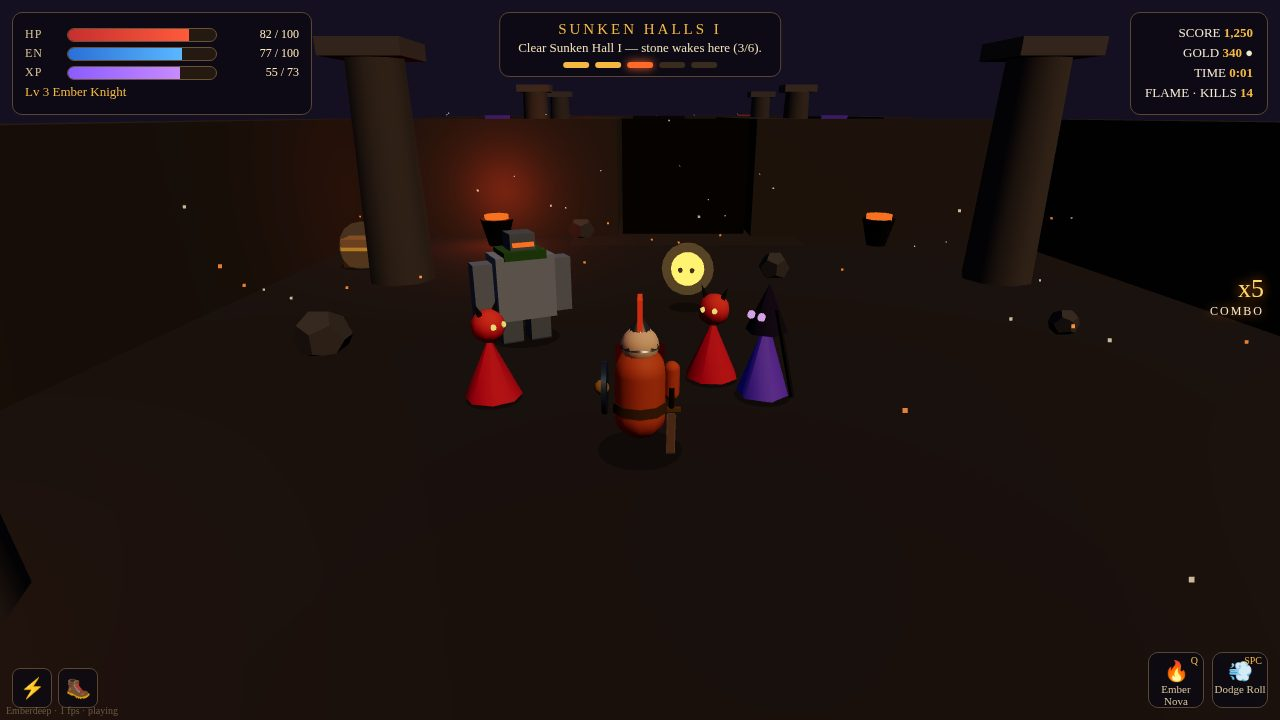
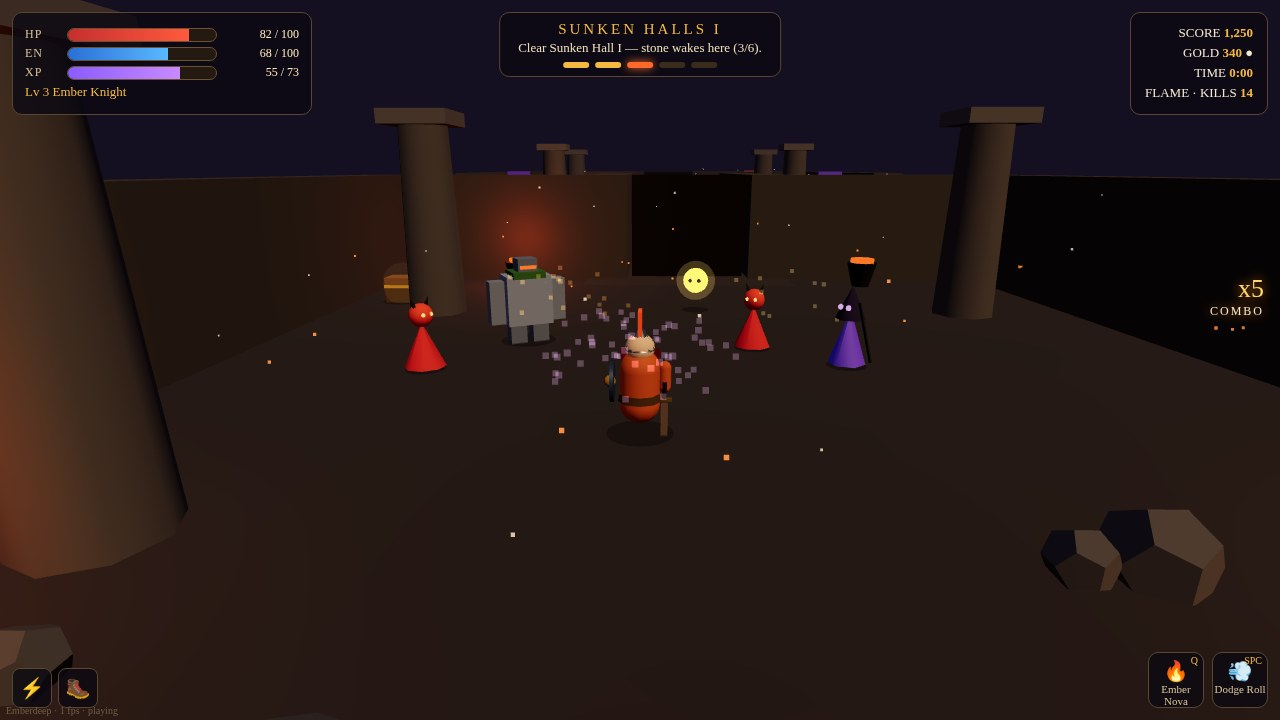
Brighten lighting so screenshots read lively like top entries; add boss-fight shot
Hemisphere 0.85->1.25, sun 1.5->1.8, ambient 0x402a18/0.5 -> 0x6a4a28/0.85,
exposure 1.05->1.15. Dungeon/vault now show floor, lava cracks, torches
clearly instead of near-black. New 7-boss.jpg (Colossus fight) + refreshed
2-gameplay/5-town/6-forest with the brighter light.

diff --git a/game/src/world.js b/game/src/world.js
@@ -455,13 +455,13 @@
     renderer.setSize(window.innerWidth, window.innerHeight);
     renderer.setPixelRatio(Math.min(window.devicePixelRatio || 1, 1.75));
     renderer.toneMapping = T.ACESFilmicToneMapping;
-    renderer.toneMappingExposure = 1.05;
-    // lights: warm sun + cool ambient
-    var hemi = new T.HemisphereLight(0x8a9fd8, 0x3a2a1a, 0.85);
+    renderer.toneMappingExposure = 1.15;
+    // lights: warm sun + cool ambient (brightened so dungeon/vault read clearly in screenshots)
+    var hemi = new T.HemisphereLight(0x8a9fd8, 0x3a2a1a, 1.25);
     scene.add(hemi);
-    var sun = new T.DirectionalLight(0xffe0b0, 1.5);
+    var sun = new T.DirectionalLight(0xffe0b0, 1.8);
     sun.position.set(30, 50, 40); scene.add(sun);
-    var deep = new T.AmbientLight(0x402a18, 0.5); scene.add(deep);
+    var deep = new T.AmbientLight(0x6a4a28, 0.85); scene.add(deep);
     buildHub(); buildForest(); buildDungeon();
     ED.scene = scene; ED.camera = camera; ED.renderer = renderer;
     ED.walls = walls; ED.gates = gates; ED.chestList = chestList;
